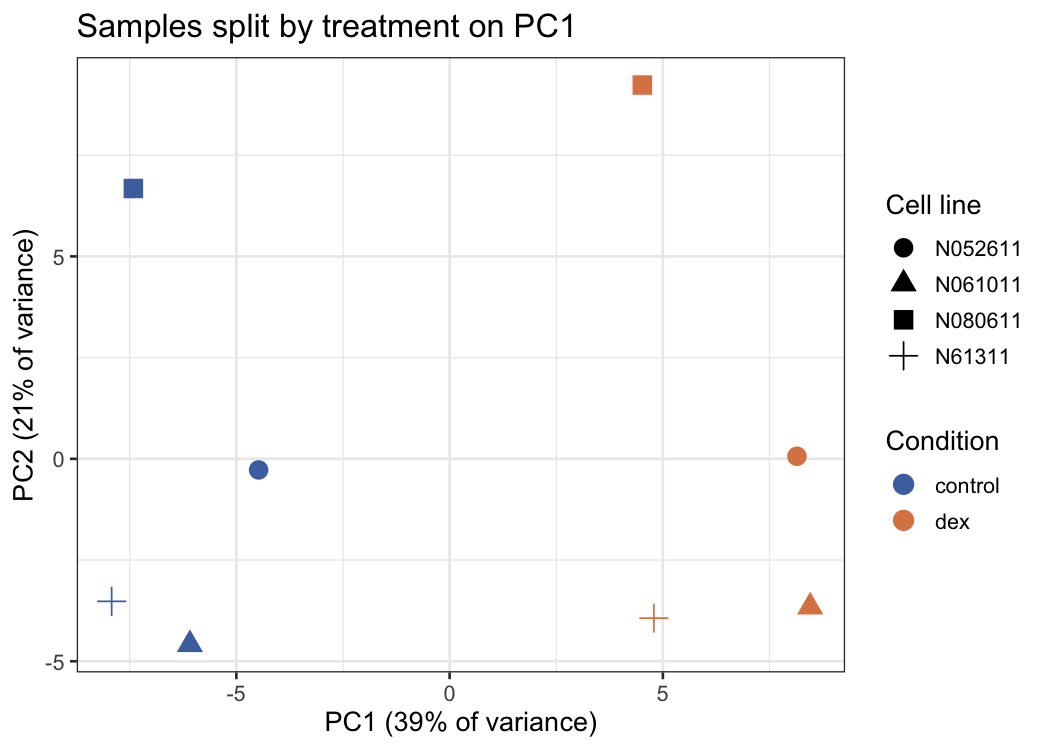
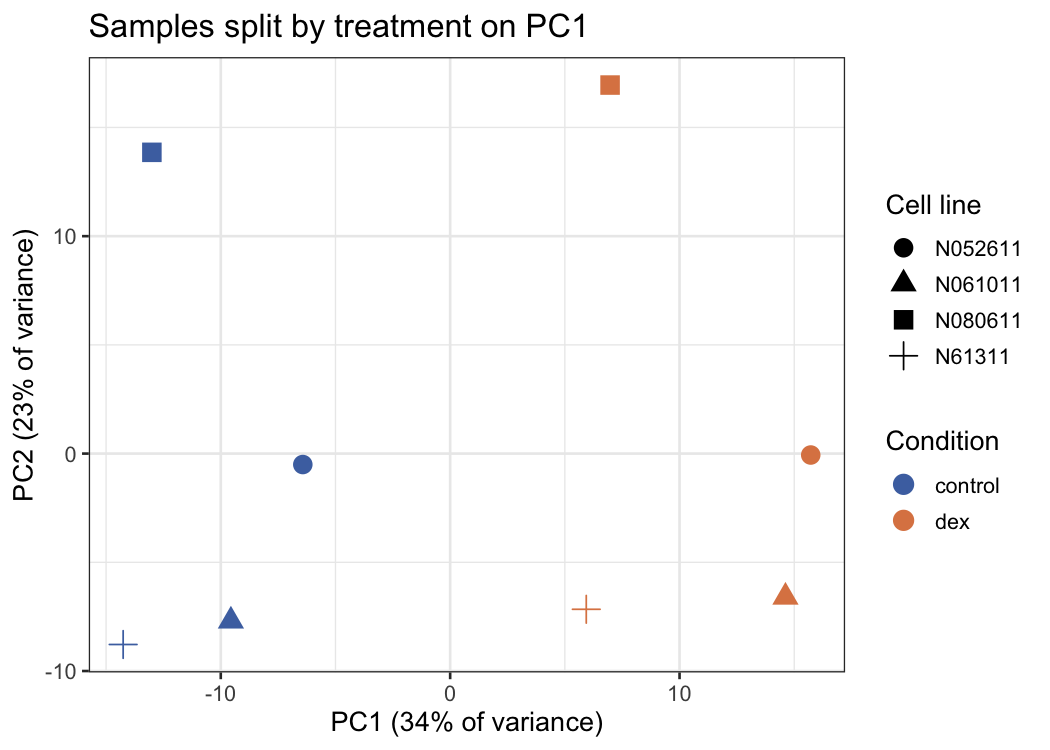
Use full data results and make downloads resume after a dropped connection

diff --git a/README.md b/README.md
@@ -48,9 +48,9 @@ Everything is joined together with Snakemake, so it knows which steps to rerun w
 
 ## Two ways to run it
 
-**Test mode (the default).** The pipeline streams only the first 2 million read pairs of each sample. This needs about 2 GB of downloads and finishes in around 20 to 30 minutes on a laptop. It is enough to find the main dexamethasone genes. The figures in this README come from test mode.
+**Test mode (the default).** The pipeline streams only the first 2 million read pairs of each sample. This needs about 2 GB of downloads and finishes in around 20 to 30 minutes on a laptop. It is enough to find the main dexamethasone genes, and it is the best way to check that everything works.
 
-**Full mode.** Every read is used, which means about 25 GB of downloads. Turn it on by setting `test_mode: false` in `config/config.yaml`, or from the command line:
+**Full mode.** Every read is used, which means about 25 GB of downloads. The results and figures in this README come from full mode. On a home connection the whole run took several hours, and most of that time was spent downloading. If the connection drops, the download step picks up where it stopped. Turn it on by setting `test_mode: false` in `config/config.yaml`, or from the command line:
 
 ```bash
 snakemake --cores 8 --config test_mode=False
@@ -58,15 +58,15 @@ snakemake --cores 8 --config test_mode=False
 
 ## Results
 
-Results below are from test mode (2 million read pairs per sample).
+Results below are from full mode, with every read (16 to 33 million read pairs per sample).
 
 ### 1. Read quality and mapping
 
-fastp found good quality reads with very little adapter in them. Salmon mapped about 95 to 96% of fragments in every sample, which is very high and shows the libraries are clean. All of these numbers are collected in `results/multiqc/multiqc_report.html`.
+fastp found good quality reads with very little adapter in them. Salmon mapped 95 to 96% of fragments in every sample, which is very high and shows the libraries are clean. All of these numbers are collected in `results/multiqc/multiqc_report.html`.
 
 ### 2. Sample level checks
 
-Before looking at single genes, it is worth checking that samples group the way we expect. On the PCA, the first component (39% of the variance) splits every treated sample from every control. The second component mostly separates the cell lines, especially N080611. This tells us two things. The treatment has a big, clear effect, and the cell lines differ from each other too. That is why the model includes cell line.
+Before looking at single genes, it is worth checking that samples group the way we expect. On the PCA, the first component (34% of the variance) splits every treated sample from every control. The second component mostly separates the cell lines, especially N080611. This tells us two things. The treatment has a big, clear effect, and the cell lines differ from each other too. That is why the model includes cell line.
 
 ![PCA](docs/figures/pca.png)
 
@@ -76,7 +76,7 @@ Before looking at single genes, it is worth checking that samples group the way 
 
 DESeq2 was run with the design `~ cell_line + condition`. This compares treated and control cells within the same person, which removes the differences between people from the test. Fold changes were shrunk with apeglm, so genes with few reads do not get huge, noisy fold changes.
 
-Out of 11,610 genes that passed the expression filter, **333 genes** changed by more than 2 fold with an adjusted p value below 0.05. Of these, **207 went up** and **126 went down**.
+Out of 17,949 genes that passed the expression filter, **749 genes** changed by more than 2 fold with an adjusted p value below 0.05. Of these, **414 went up** and **335 went down**. If we drop the fold change cutoff, 3,659 genes change by some amount. Steroids touch a large part of the genome, but most of those changes are small.
 
 ![MA plot](docs/figures/ma_plot.png)
 
@@ -84,14 +84,16 @@ The top genes are well known targets of the glucocorticoid receptor, the protein
 
 | Gene | log2 fold change | What it is |
 |---|---|---|
-| FKBP5 | +3.7 | Classic steroid response gene. Often used as a marker that a steroid is working |
-| TSC22D3 (GILZ) | +3.2 | Switches off inflammation, a key part of how steroids calm the airway |
-| DUSP1 | +2.8 | Turns off inflammatory signalling inside the cell |
-| KLF15 | +5.1 | Known steroid target in airway smooth muscle |
-| ZBTB16 | +6.2 | One of the most strongly induced steroid genes in many tissues |
+| FKBP5 | +4.0 | Classic steroid response gene. Often used as a marker that a steroid is working |
+| TSC22D3 (GILZ) | +3.1 | Switches off inflammation, a key part of how steroids calm the airway |
+| DUSP1 | +3.0 | Turns off inflammatory signalling inside the cell |
+| KLF15 | +4.4 | Known steroid target in airway smooth muscle |
+| ZBTB16 | +6.4 | One of the most strongly induced steroid genes in many tissues |
 | CRISPLD2 | +2.6 | Highlighted by Himes et al. as a new asthma related steroid target |
-| PER1 | +2.3 | Body clock gene that responds directly to steroids |
-| CXCL12 | −1.9 | A chemokine that draws in immune cells. Pushed down by the steroid |
+| PER1 | +2.9 | Body clock gene that responds directly to steroids |
+| CXCL12 | −1.8 | A chemokine that draws in immune cells. Pushed down by the steroid |
+
+ZBTB16 is the most significant gene of all. Other genes near the top of the list include SAMHD1, MAOA, SERPINA3, GPX3, SPARCL1 and MT2A. All of them are known to go up with steroids.
 
 ![Top genes](docs/figures/top_genes_counts.png)
 
@@ -101,13 +103,15 @@ Each line in the plot above joins the control and treated sample from one cell l
 
 ### 4. Pathways
 
-For gene set enrichment, every tested gene is ranked by how strongly and in which direction it changed. fgsea then checks whether the genes in each hallmark pathway sit near the top or the bottom of that list. Androgen response and adipogenesis lead the list. Both make sense, because the androgen and glucocorticoid receptors share many target genes, and steroids are known to push cells toward fat related programs. In test mode the signal is still weak and no pathway passes an adjusted p value of 0.05. A full mode run gives much stronger results.
+For gene set enrichment, every tested gene is ranked by how strongly and in which direction it changed. fgsea then checks whether the genes in each hallmark pathway sit near the top or the bottom of that list. Adipogenesis comes out on top and is the only pathway with an adjusted p value below 0.05. This makes sense, since steroids are known to push cells toward fat related programs. Fatty acid metabolism, androgen response and TNF alpha signalling come next, but they do not pass the cutoff. The androgen and glucocorticoid receptors share many target genes, so the androgen result fits too.
+
+The pathway signal is modest. That is not a surprise. Only four pairs of samples were used, and the hallmark sets are broad. Many of the strongest steroid genes, such as ZBTB16 and FKBP5, are not in any single hallmark set. The gene level results above are the main story of this data.
 
 ![Hallmark GSEA](docs/figures/hallmark_gsea.png)
 
 ## How to run it
 
-You need [conda](https://docs.conda.io) or [mamba](https://mamba.readthedocs.io), an internet connection and about 10 GB of free disk space for test mode (most of it is the Salmon index).
+You need [conda](https://docs.conda.io) or [mamba](https://mamba.readthedocs.io), an internet connection and about 10 GB of free disk space for test mode (most of it is the Salmon index). Full mode needs about 60 GB.
 
 ```bash
 git clone https://github.com/hafizmtalha/bulk-rnaseq-airway.git
